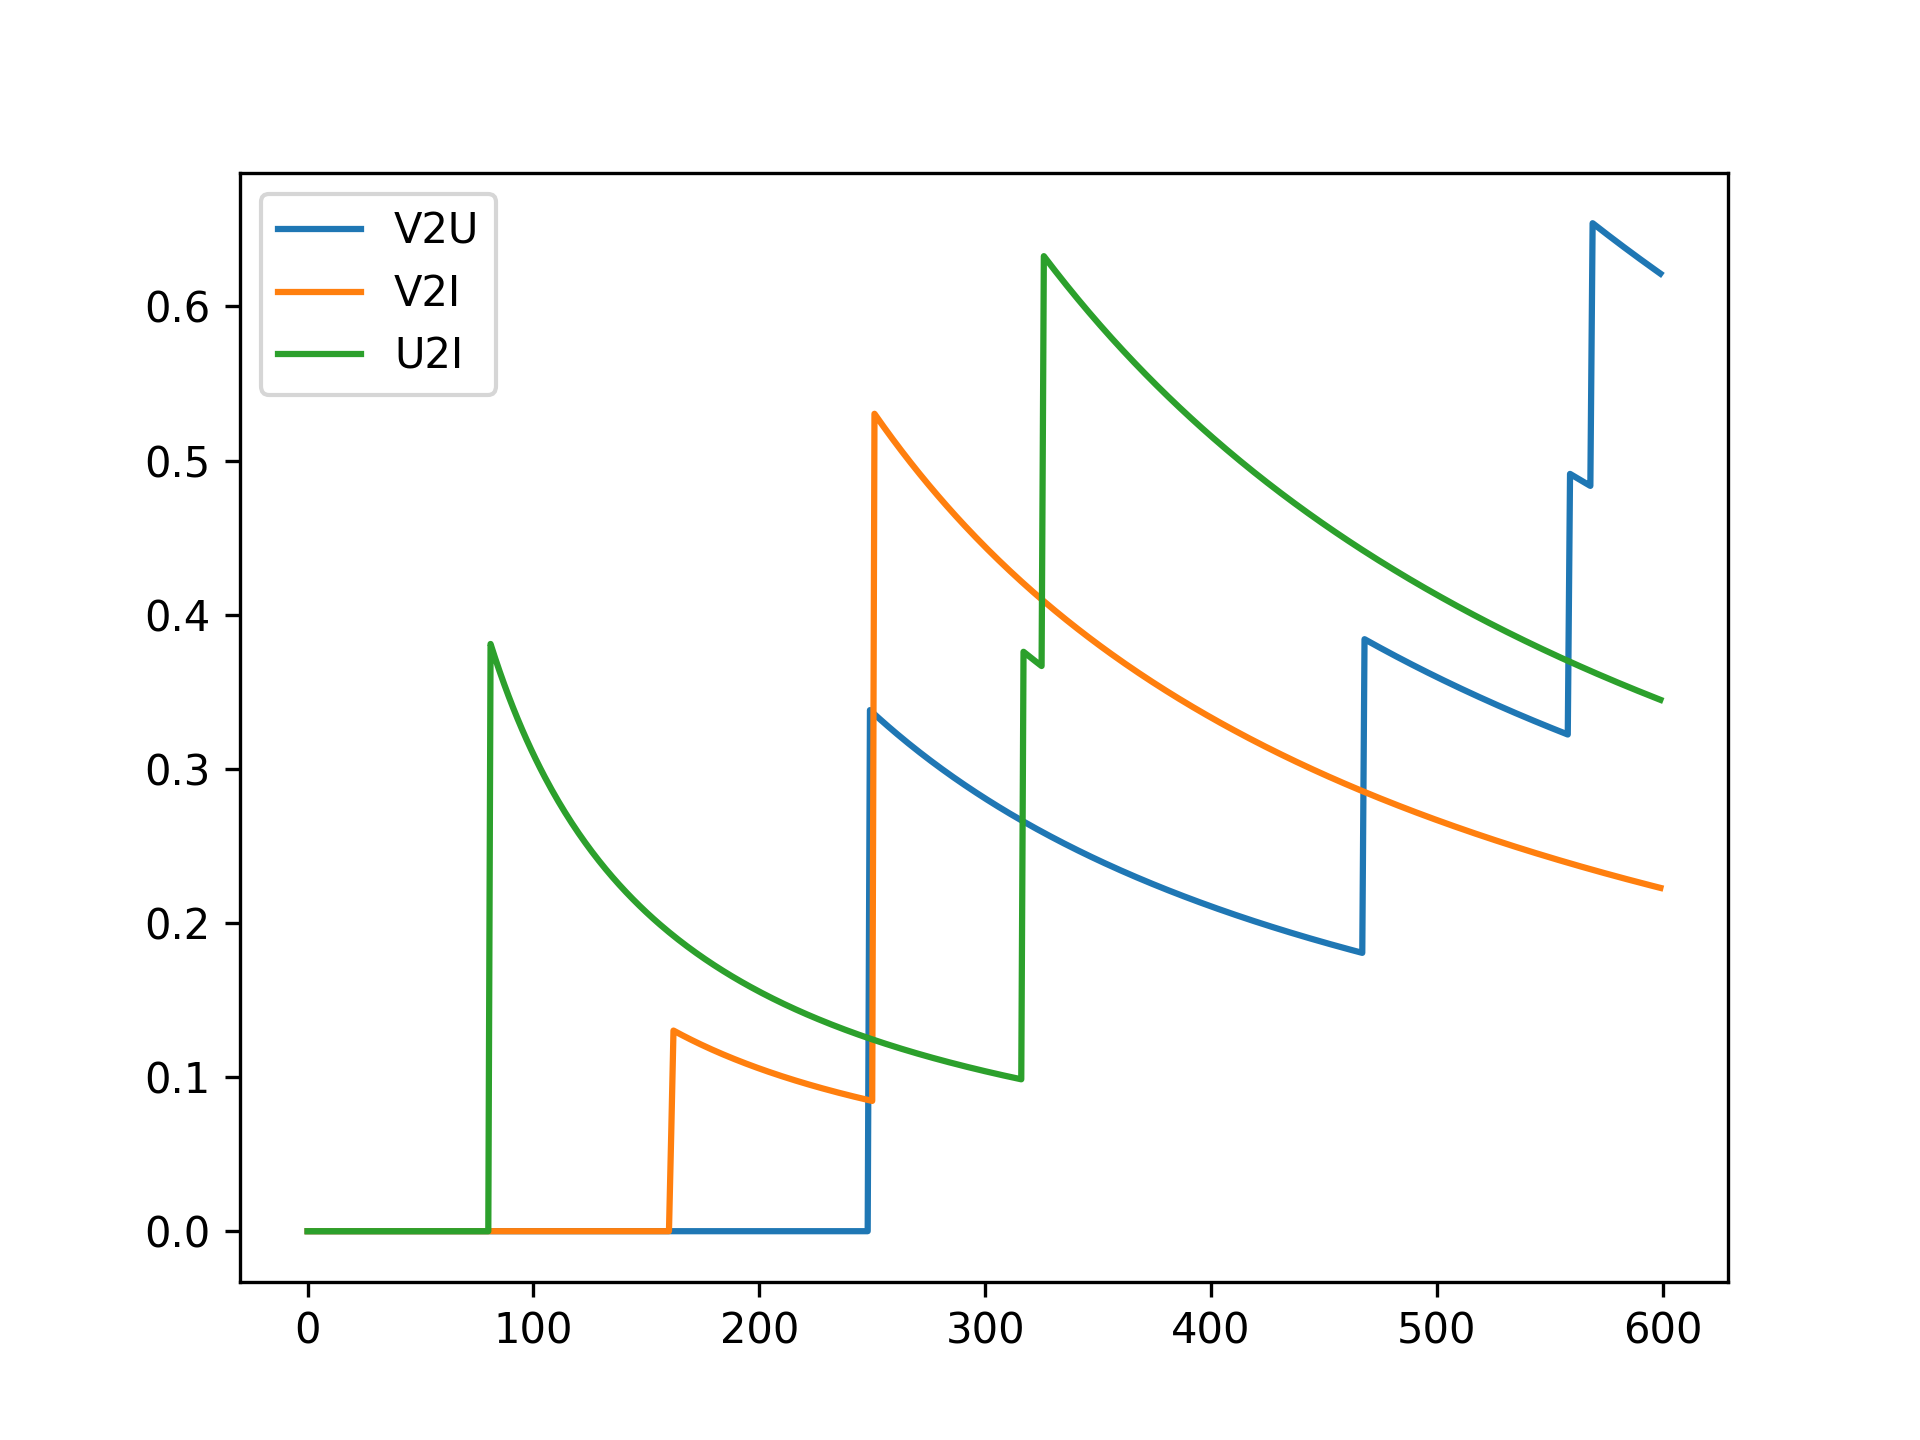
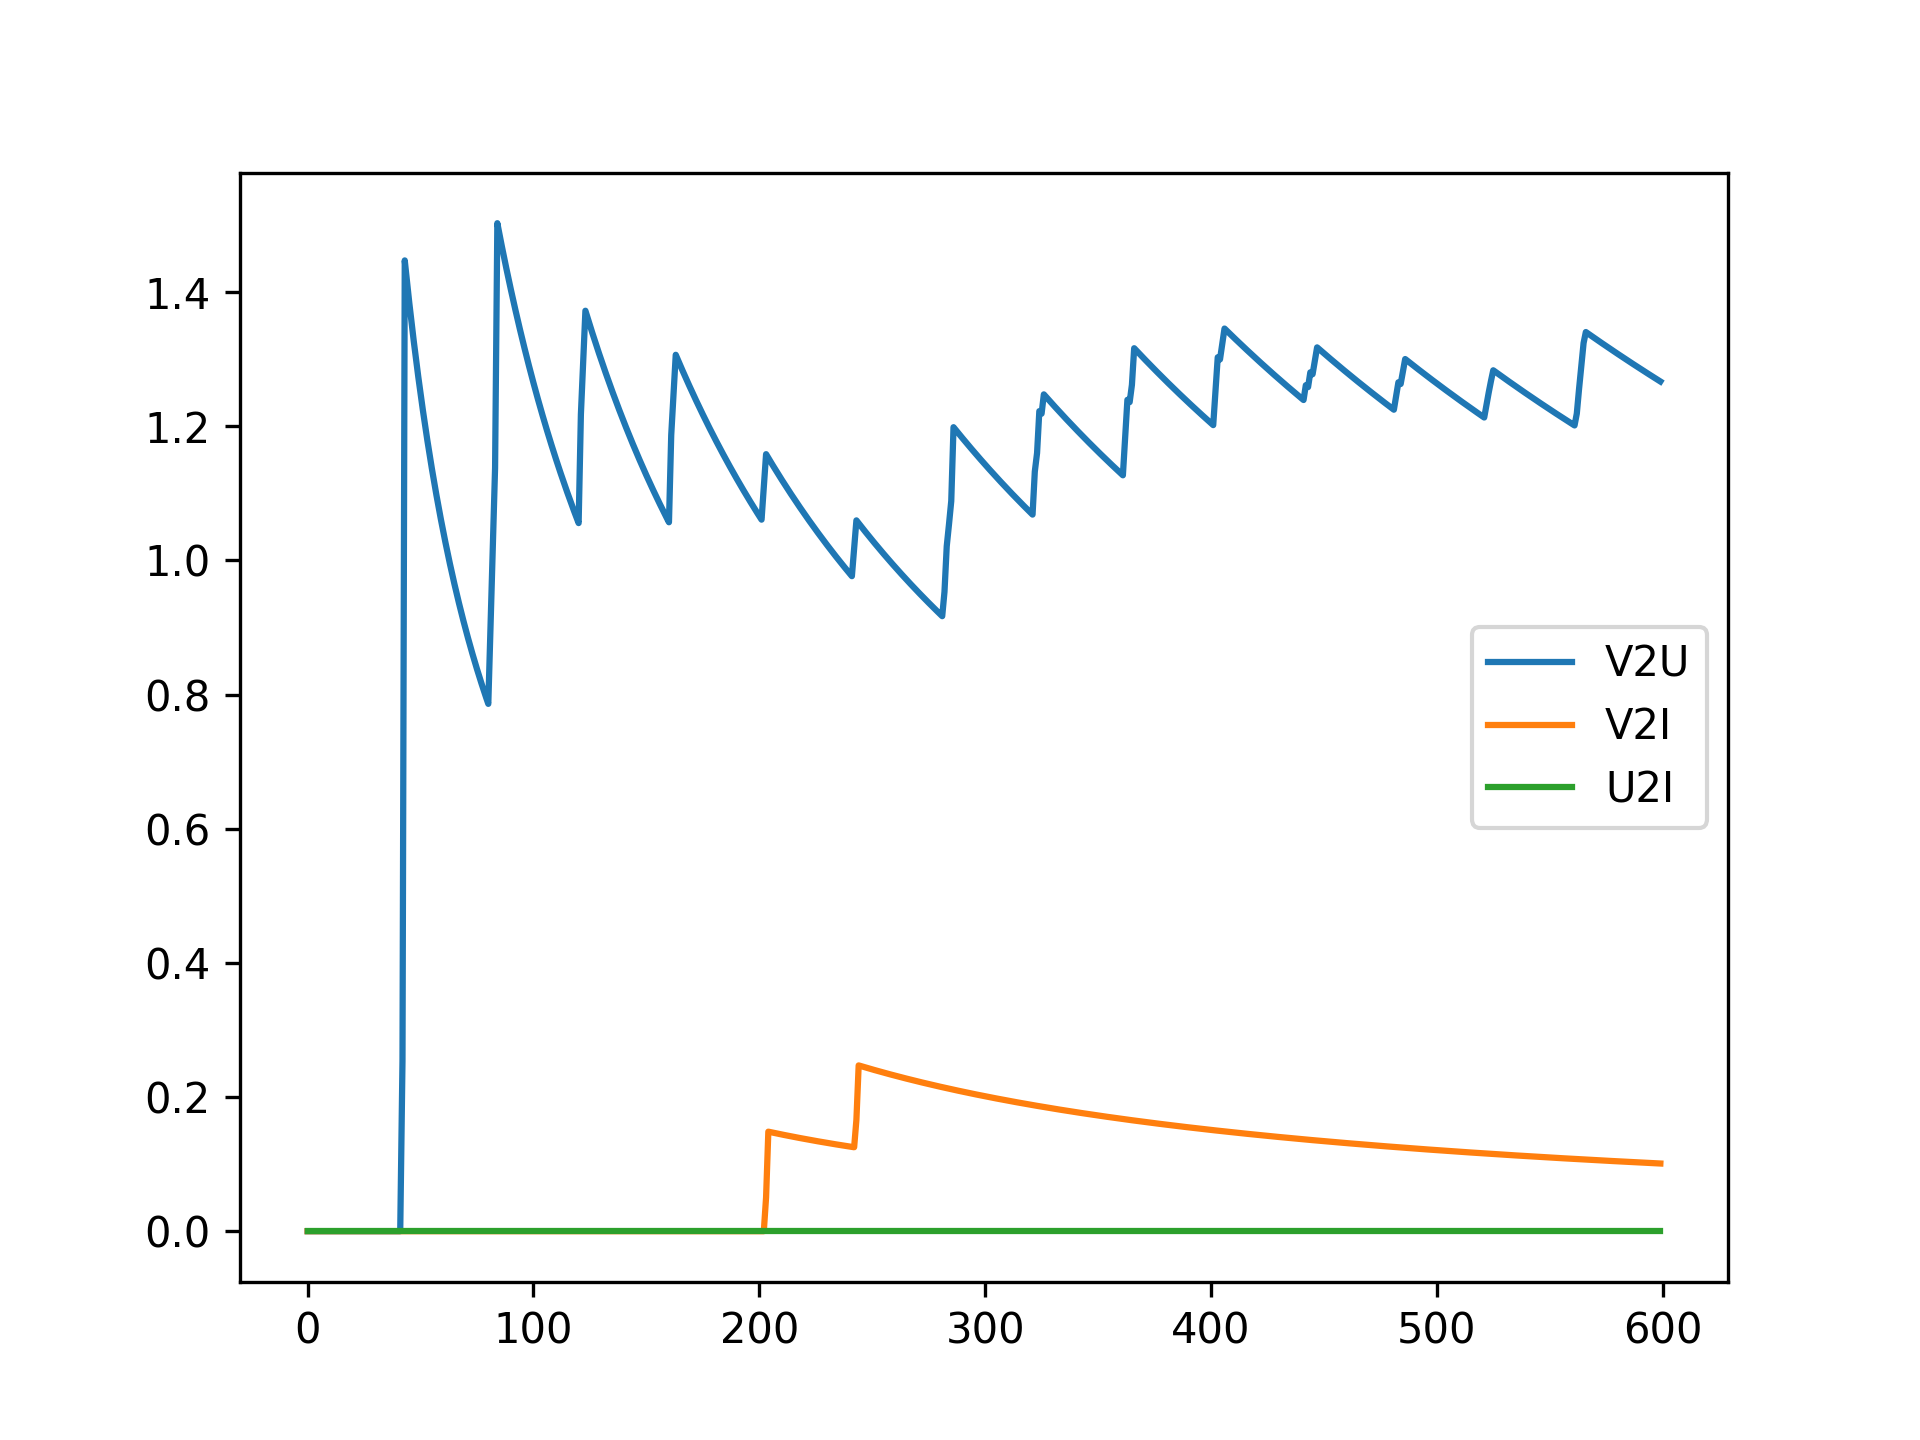
固定随机数，方便复现

diff --git a/airfogsim/manager/task_manager.py b/airfogsim/manager/task_manager.py
@@ -7,6 +7,11 @@ import itertools
 import random
 import networkx as nx
 
+SEED = 42  # 你可以用任何你喜欢的整数
+
+random.seed(SEED)
+np.random.seed(SEED)
+
 def generate_random_dag(node_ids, edge_probability):
     """
     Generates a random DAG using NetworkX.
@@ -77,7 +82,7 @@ class TaskManager:
         self._task_dependencies = {}
 
         self._task_generation_model = task_generation_model
-        assert task_generation_model in TaskManager.SUPPORTED_TASK_GENERATION_MODELS, 'The task generation model is not supported. Only support {}'.format(TaskManager.SUPPORTED_TASK_GENERATION_MODELS)
+        # assert task_generation_model in TaskManager.SUPPORTED_TASK_GENERATION_MODELS, 'The task generation model is not supported. Only support {}'.format(TaskManager.SUPPORTED_TASK_GENERATION_MODELS)
         self._generated_task_history = {} # key: node id, value: list of task info
         self._to_generate_task_infos = {} # use Node Id as the key, and the value is the task info list
         self._waiting_to_offload_tasks = {} # after generating, waiting to offload
@@ -706,6 +711,9 @@ class TaskManager:
                 continue
             last_generation_time = max(last_generation_time, cur_time)
             last_generation_time += simulation_interval
+            # constant情况下一个prediction seconds只产生两个任务
+            index = 0
+        
             while last_generation_time <= cur_time + self._predictable_seconds:
                 if self._task_generation_model == 'Poisson':
                     kwlambda = kwargsDict.get('lambda', self._task_generation_lambda)
@@ -730,12 +738,21 @@ class TaskManager:
                     task_num = np.random.exponential(kwbeta * simulation_interval)
                     assert kwbeta * simulation_interval > 0, 'There is no task to generate.'
                     task_num = int(task_num)
+                # index要小于2
+                elif self._task_generation_model == 'Constant' :
+                    # assert kwconstant > 0, 'There is no task to generate.'
+                    if index < 2:
+                        task_num = 1
+                        index += 1
+                    else:
+                        task_num = 0
+                    index += 1
 
                 elif self._task_generation_model == 'None':# 不生成任务
                     break 
 
                 else:
-                    raise NotImplementedError('The task generation model is not implemented.')
+                    raise NotImplementedError(f'The task generation model "{self._task_generation_model}" is not implemented.')
 
                 if task_num == 0 and abs(cur_time + self._predictable_seconds - last_generation_time) < 1e-3:
                     task_num = 1 # 保证最后一个时间点至少有一个任务

diff --git a/airfogsim/airfogsim_env.py b/airfogsim/airfogsim_env.py
@@ -18,6 +18,10 @@ import numpy as np
 import time
 from .utils.tk_utils import parse_location_info
 
+# 固定种子
+SEED = 42  # 你可以用任何你喜欢的整数
+
+np.random.seed(SEED)
 
 class AirFogSimEnv():
     """AirFogSimEnv is the main class for the airfogsim environment. It provides the simulation of communication, computation, storage, battery, vehicle/UAV trajectory, cloud/cloudlet nodes, AI models for entities, blockchain, authentication, and privacy. It also provides the APIs for the agent to interact with the environment. The agent can be a DRL agent, a rule-based agent, or a human player.
@@ -210,6 +214,7 @@ class AirFogSimEnv():
         # 2. Update sensors (generate new sensor after generating new vehicles)
         self._updateSensor()
         sim_step_per_traffic_step = int(self.traffic_interval / self.simulation_interval)
+        # 目前的配置下就是sim_step_per_traffic_step = 1
         for _ in range(sim_step_per_traffic_step):
             # 3. Update the authentication and privacy
             self._updateAuthPrivacy()

diff --git a/airfogsim/manager/channel_manager_cp.py b/airfogsim/manager/channel_manager_cp.py
@@ -13,6 +13,10 @@ if os.environ.get('useCUPY') == 'True':
         print("CuPy not available. Using NumPy instead.")
 else:
     import numpy as cp
+
+SEED = 42  # 你可以用任何你喜欢的整数
+
+cp.random.seed(SEED)
 class ChannelManagerCP:
     """ChannelManager is the class for managing the wireless communication channels in the airfogsim environment. It provides the APIs for the agent to interact with the channels."""
     def __init__(self, config_channel, n_RSU=1, n_UAV=1, n_Veh=1, hei_UAVs=100, RSU_positions=[], simulation_interval=0.1):

diff --git a/airfogsim/airfogsim_algorithm.py b/airfogsim/airfogsim_algorithm.py
@@ -5,6 +5,10 @@ from .airfogsim_env import AirFogSimEnv
 # from .algorithm.DDQN.DDQN_env import  DDQN_Env
 import numpy as np
 
+SEED = 42  # 你可以用任何你喜欢的整数
+
+random.seed(SEED)
+np.random.seed(SEED)
 
 class BaseAlgorithmModule:
     """Use different schedulers to interact with the environment before calling env.step(). Manipulate different environments with the same algorithm design at the same time for learning sampling efficiency.\n

diff --git a/airfogsim/manager/traffic_manager.py b/airfogsim/manager/traffic_manager.py
@@ -3,6 +3,12 @@ import numpy as np
 import random
 import pandas as pd
 import sumolib
+
+SEED = 42  # 你可以用任何你喜欢的整数
+
+random.seed(SEED)
+np.random.seed(SEED)
+
 class TrafficManager():
     """The traffic manager class. It manages both vehicle traffic and UAV traffic. It also manipulates the positions of the vehicles, UAVs, RSUs, and cloud servers.
     """

diff --git a/airfogsim/manager/mission_manager.py b/airfogsim/manager/mission_manager.py
@@ -4,7 +4,10 @@ from ..entities.mission import Mission
 
 import numpy as np
 
+SEED = 42  # 你可以用任何你喜欢的整数
 
+random.seed(SEED)
+np.random.seed(SEED)
 class MissionManager:
     """MissionManager class is responsible for managing the missions for each node according to its ids.
     """

diff --git a/airfogsim/channel_callback/pathloss_callback.py b/airfogsim/channel_callback/pathloss_callback.py
@@ -13,6 +13,10 @@ else:
 
 MAX_PL = 500 # The maximum path loss in dB, does not have a physical meaning
 
+# 固定随机种子
+SEED = 42  # 你可以用任何你喜欢的整数
+
+cp.random.seed(SEED)
 
 def PathLossCallback(pathloss_type):
     """The callback function to get the path loss.

diff --git a/airfogsim/channel_callback/fading_callback.py b/airfogsim/channel_callback/fading_callback.py
@@ -11,6 +11,11 @@ if os.environ.get('useCUPY') == 'True':
 else:
     import numpy as cp
 
+# 固定随机种子
+SEED = 42  # 你可以用任何你喜欢的整数
+
+cp.random.seed(SEED)
+
 def FastFadingCallback(fastfading_type):
     """The callback function to get the fast fading.
 

diff --git a/airfogsim/manager/energy_manager.py b/airfogsim/manager/energy_manager.py
@@ -2,7 +2,10 @@ import random
 from collections import deque
 
 import numpy as np
+SEED = 42  # 你可以用任何你喜欢的整数
 
+random.seed(SEED)
+np.random.seed(SEED)
 
 class EnergyManager:
     """EnergyManager class is responsible for managing the battery energy for UAV.

diff --git a/airfogsim/utils/randomTrips.py b/airfogsim/utils/randomTrips.py
@@ -29,6 +29,10 @@ from collections import defaultdict
 import math
 import optparse
 
+SEED = 42  # 你可以用任何你喜欢的整数
+
+random.seed(SEED)
+
 if 'SUMO_HOME' in os.environ:
     sys.path.append(os.path.join(os.environ['SUMO_HOME'], 'tools'))
 import sumolib  # noqa

diff --git a/airfogsim/channel_callback/shadowing_callback.py b/airfogsim/channel_callback/shadowing_callback.py
@@ -11,6 +11,10 @@ if os.environ.get('useCUPY') == 'True':
 else:
     import numpy as cp
 
+SEED = 42  # 你可以用任何你喜欢的整数
+# 固定随机种子
+cp.random.seed(SEED)
+
 def ShadowingCallback(shadowing_type):
     """The callback function to get the shadowing.
 

diff --git a/airfogsim/algorithm/DDQN/DDQN_model.py b/airfogsim/algorithm/DDQN/DDQN_model.py
@@ -6,7 +6,10 @@ from torch.nn import functional as F
 import numpy as np
 import collections  # 队列
 import random
+SEED = 42  # 你可以用任何你喜欢的整数
 
+random.seed(SEED)
+np.random.seed(SEED)
 
 # ----------------------------------- #
 # （1）经验回放池
